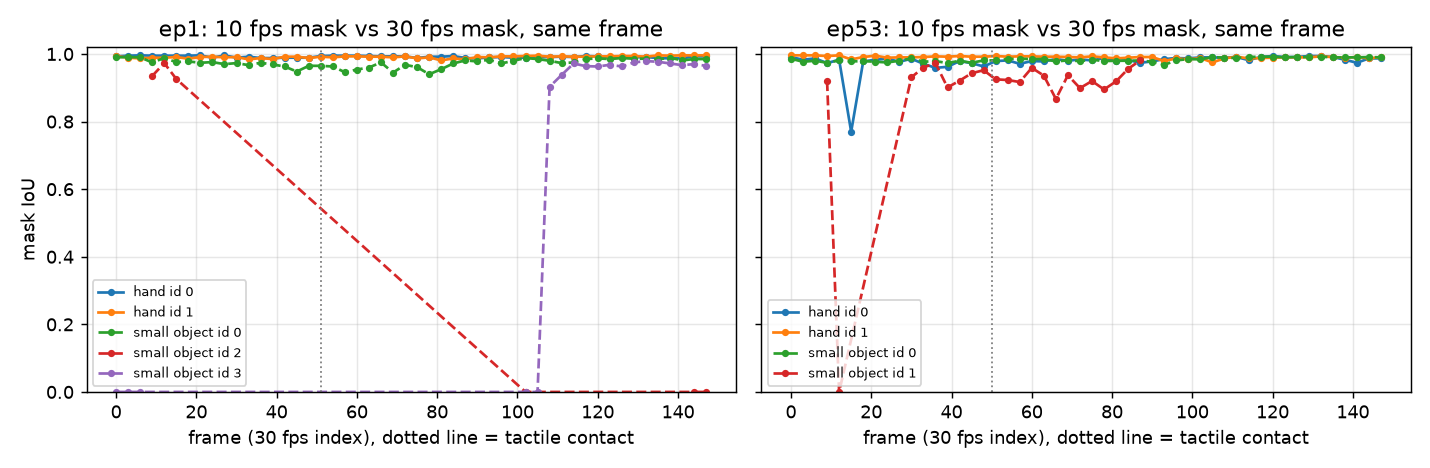
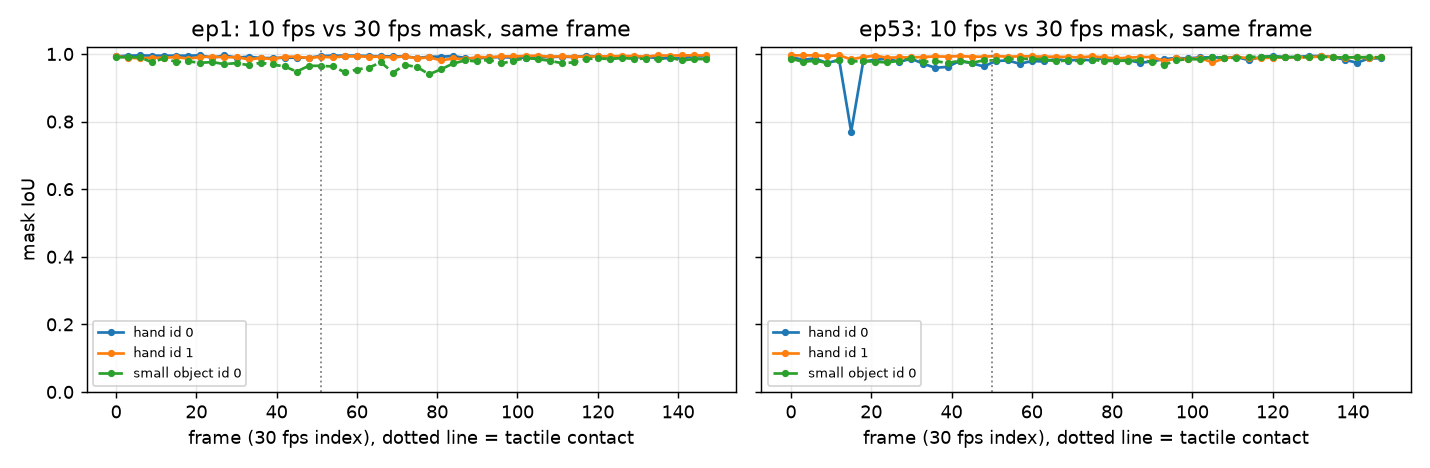
Fix left and right hand in the episode 53 10fps rows
The EXP-05 caption was corrected upstream: hand id 0 is the left hand in
episode 1 but the right hand in episode 53. The raw boxes agree, id 0
sits at x 800 to 1160 in episode 53. The page had taken the left and
right labels from the write-up table, which still has them swapped, so
the 0.770 dip belongs to the right hand at the right edge of the frame,
not the left.

Also takes the regenerated IoU plot, which now shows only the tracks that
last the whole clip, and rewrites its caption to match.

diff --git a/index.html b/index.html
@@ -704,14 +704,14 @@ video:  clip.mp4 (150 frames)</pre>
               <tr><td class="first">에피소드 1</td><td>왼손</td><td class="n">50 / 50</td><td class="n">0.992</td><td class="n">0.987</td></tr>
               <tr><td class="first">에피소드 1</td><td>오른손</td><td class="n">50 / 50</td><td class="n">0.991</td><td class="n">0.981</td></tr>
               <tr><td class="first">에피소드 1</td><td>잡는 용기</td><td class="n">50 / 50</td><td class="n">0.974</td><td class="n">0.940</td></tr>
-              <tr><td class="first">에피소드 53</td><td>왼손</td><td class="n">50 / 50</td><td class="n">0.978</td><td class="n">0.770</td></tr>
-              <tr><td class="first">에피소드 53</td><td>오른손</td><td class="n">50 / 50</td><td class="n">0.990</td><td class="n">0.975</td></tr>
+              <tr><td class="first">에피소드 53</td><td>왼손</td><td class="n">50 / 50</td><td class="n">0.990</td><td class="n">0.975</td></tr>
+              <tr><td class="first">에피소드 53</td><td>오른손</td><td class="n">50 / 50</td><td class="n">0.978</td><td class="n">0.770</td></tr>
               <tr><td class="first">에피소드 53</td><td>스프레이병</td><td class="n">50 / 50</td><td class="n">0.983</td><td class="n">0.968</td></tr>
             </tbody>
           </table>
         </div>
       </div>
-      <p class="note">0.77은 에피소드 53 클립 프레임 15 한 장으로, 머리가 돌면서 왼손이 화면 끝에 잘린 순간이다. 다음 프레임은 0.98로 돌아온다.</p>
+      <p class="note">0.77은 에피소드 53 클립 프레임 15 한 장으로, 머리가 돌면서 오른손이 화면 오른쪽 끝에 걸린 순간이다. 다음 프레임은 0.98로 돌아온다.</p>
 
       <figure>
         <img src="assets/exp05_ep53_30fps_vs_10fps.jpg" loading="lazy" width="1920" height="540" alt="에피소드 53의 같은 네 시점에서 30fps(위)와 10fps(아래) 분할 결과">
@@ -723,7 +723,7 @@ video:  clip.mp4 (150 frames)</pre>
       </figure>
       <figure>
         <img src="assets/exp05_mask_iou_by_frame.png" loading="lazy" width="1430" height="468" alt="두 에피소드의 프레임별 마스크 IoU 선 그래프">
-        <figcaption>프레임별 마스크 IoU. 손과 잡는 물체는 끝까지 0.95 안팎. 크게 떨어지는 선은 몇 프레임만 나타나는 보조 검출. 점선은 촉각 접촉 시점.</figcaption>
+        <figcaption>프레임별 마스크 IoU, 클립 전체에 걸친 트랙만. hand id 0은 에피소드 1에서 왼손, 에피소드 53에서 오른손이고 small object id 0은 두 클립 모두 잡는 물체. 점선은 촉각 접촉 시점.</figcaption>
       </figure>
 
       <ul class="plain concl">
@@ -886,7 +886,7 @@ video:  clip.mp4 (150 frames)</pre>
 
   <footer>
     자료: OpenGraph Ego-Tactile (CC-BY-4.0), HOT3D (Meta). 영상과 프레임 그림은 OpenGraph에서 가져옴.<br>
-    마지막 갱신 2026-10-27 17:06 KST
+    마지막 갱신 2026-10-27 17:14 KST
   </footer>
 
 </main>

diff --git a/scripts/sam_fps_compare.py b/scripts/sam_fps_compare.py
@@ -185,7 +185,7 @@ def main():
                 ax.plot([STEP * k for k in ks], [row["iou_by_frame"][k] for k in ks], ls, marker=".",
                         label=f"{p} id {row['id_10fps']}")
         ax.axvline(CLIPS[name][2], color="grey", lw=1, ls=":")
-        ax.set_title(f"{name}: 10 fps mask vs 30 fps mask, same frame, full-clip tracks")
+        ax.set_title(f"{name}: 10 fps vs 30 fps mask, same frame")
         ax.set_xlabel("frame (30 fps index), dotted line = tactile contact")
         ax.set_ylim(0, 1.02)
         ax.grid(alpha=0.3)

diff --git a/docs/experiments/exp05_sam_10fps_vs_30fps.md b/docs/experiments/exp05_sam_10fps_vs_30fps.md
@@ -56,7 +56,8 @@ rates. Id 1 (pink, left edge) is the background object seen in EXP-03.*
 ![mask IoU per frame](img/exp05_mask_iou_by_frame.png)
 
 *Mask IoU between the 10 fps and 30 fps results on the same frame, for the
-tracks that last the whole clip.*
+tracks that last the whole clip. Hand id 0 is the left hand in ep1 and the
+right hand in ep53. Small object id 0 is the grasped object in both.*
 
 ### Side tracks
 
